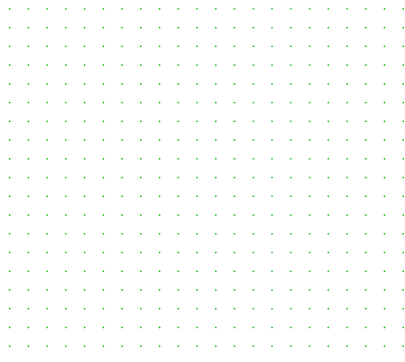
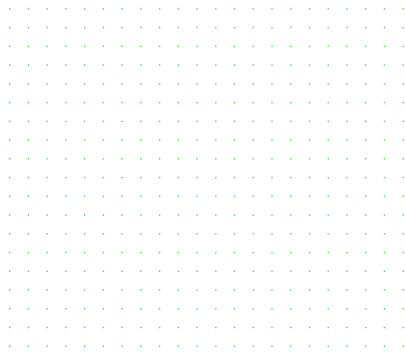
cambio de background

diff --git a/css/style.css b/css/style.css
@@ -130,4 +130,10 @@ main section .carusel__container div div img:hover, main .productos_container .c
   font-family: "Ubuntu", sans-serif;
 }
 
+body {
+  background-image: url("../images/background.png");
+  background-size: auto;
+  background-attachment: fixed;
+}
+
 /*# sourceMappingURL=style.css.map */

diff --git a/scss/style.scss b/scss/style.scss
@@ -14,3 +14,8 @@
     font-family: 'Ubuntu', sans-serif;
 }
 
+body{
+    background-image:url("../images/background.png");
+    background-size:auto;
+    background-attachment:fixed;
+}
